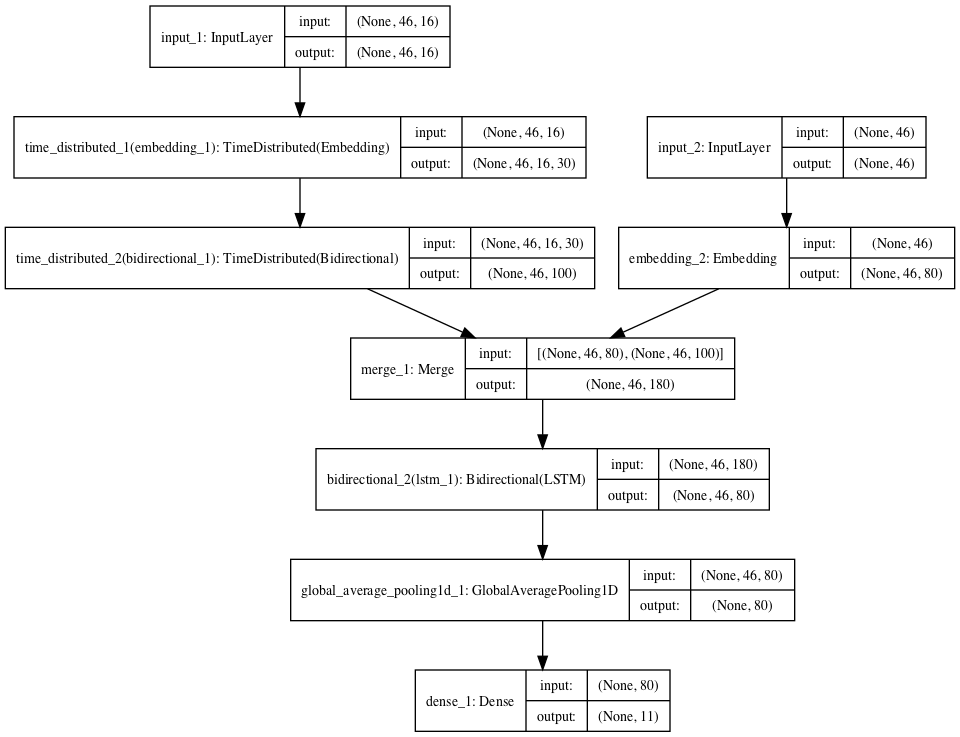
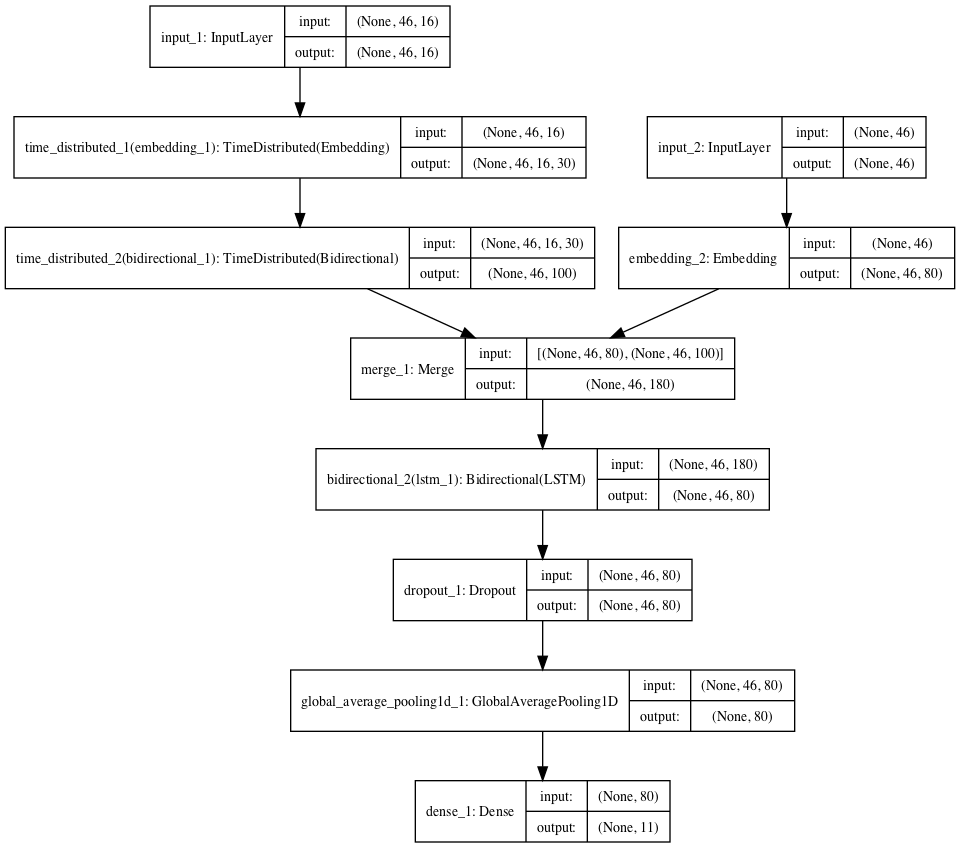
update rnn, 43th row

Changed region(s): [[0.0, 0.1248, 1.0, 0.9986], [0.1562, 0.0, 0.4688, 0.0936]]

diff --git a/code/twitter_sentiment_rnn.py b/code/twitter_sentiment_rnn.py
@@ -236,10 +236,10 @@ def twitter_rnn(char_vocabulary_size: int, word_vocabulary_size: int, word_len: 
 
     concat1 = merge([word_embedding, char_rnn], mode='concat')
     blstm = Bidirectional(LSTM(output_dim=80, init='uniform', inner_init='uniform', forget_bias_init='one', return_sequences=True, activation='tanh', inner_activation='sigmoid'), merge_mode='sum')(concat1)
-    # dropper = Dropout(0.2)(blstm)
+    dropper = Dropout(0.2)(blstm)
     # dense = TimeDistributed(Dense(n_outputs, activation='sigmoid'))(dropper)
     # 
-    avgpool1 =  GlobalAveragePooling1D()(blstm) 
+    avgpool1 =  GlobalAveragePooling1D()(dropper) 
     dense = Dense(n_outputs, activation='sigmoid')(avgpool1)
 
     model = Model(inputs=[input1, input2], outputs=dense)
@@ -270,7 +270,7 @@ def twitter_rnn(char_vocabulary_size: int, word_vocabulary_size: int, word_len: 
     # model.compile(loss='binary_crossentropy', optimizer='Adam', metrics=['accuracy'])
 
     print(model.summary())
-    plot_model(model, show_shapes = True, to_file='rnn41.png')
+    plot_model(model, show_shapes = True, to_file='rnn43.png')
 
     kwargs = {'callbacks': [EarlyStopping(monitor='val_loss', min_delta=0.0001, patience=5, verbose=0, mode='auto')], 'batch_size': 32}
 
